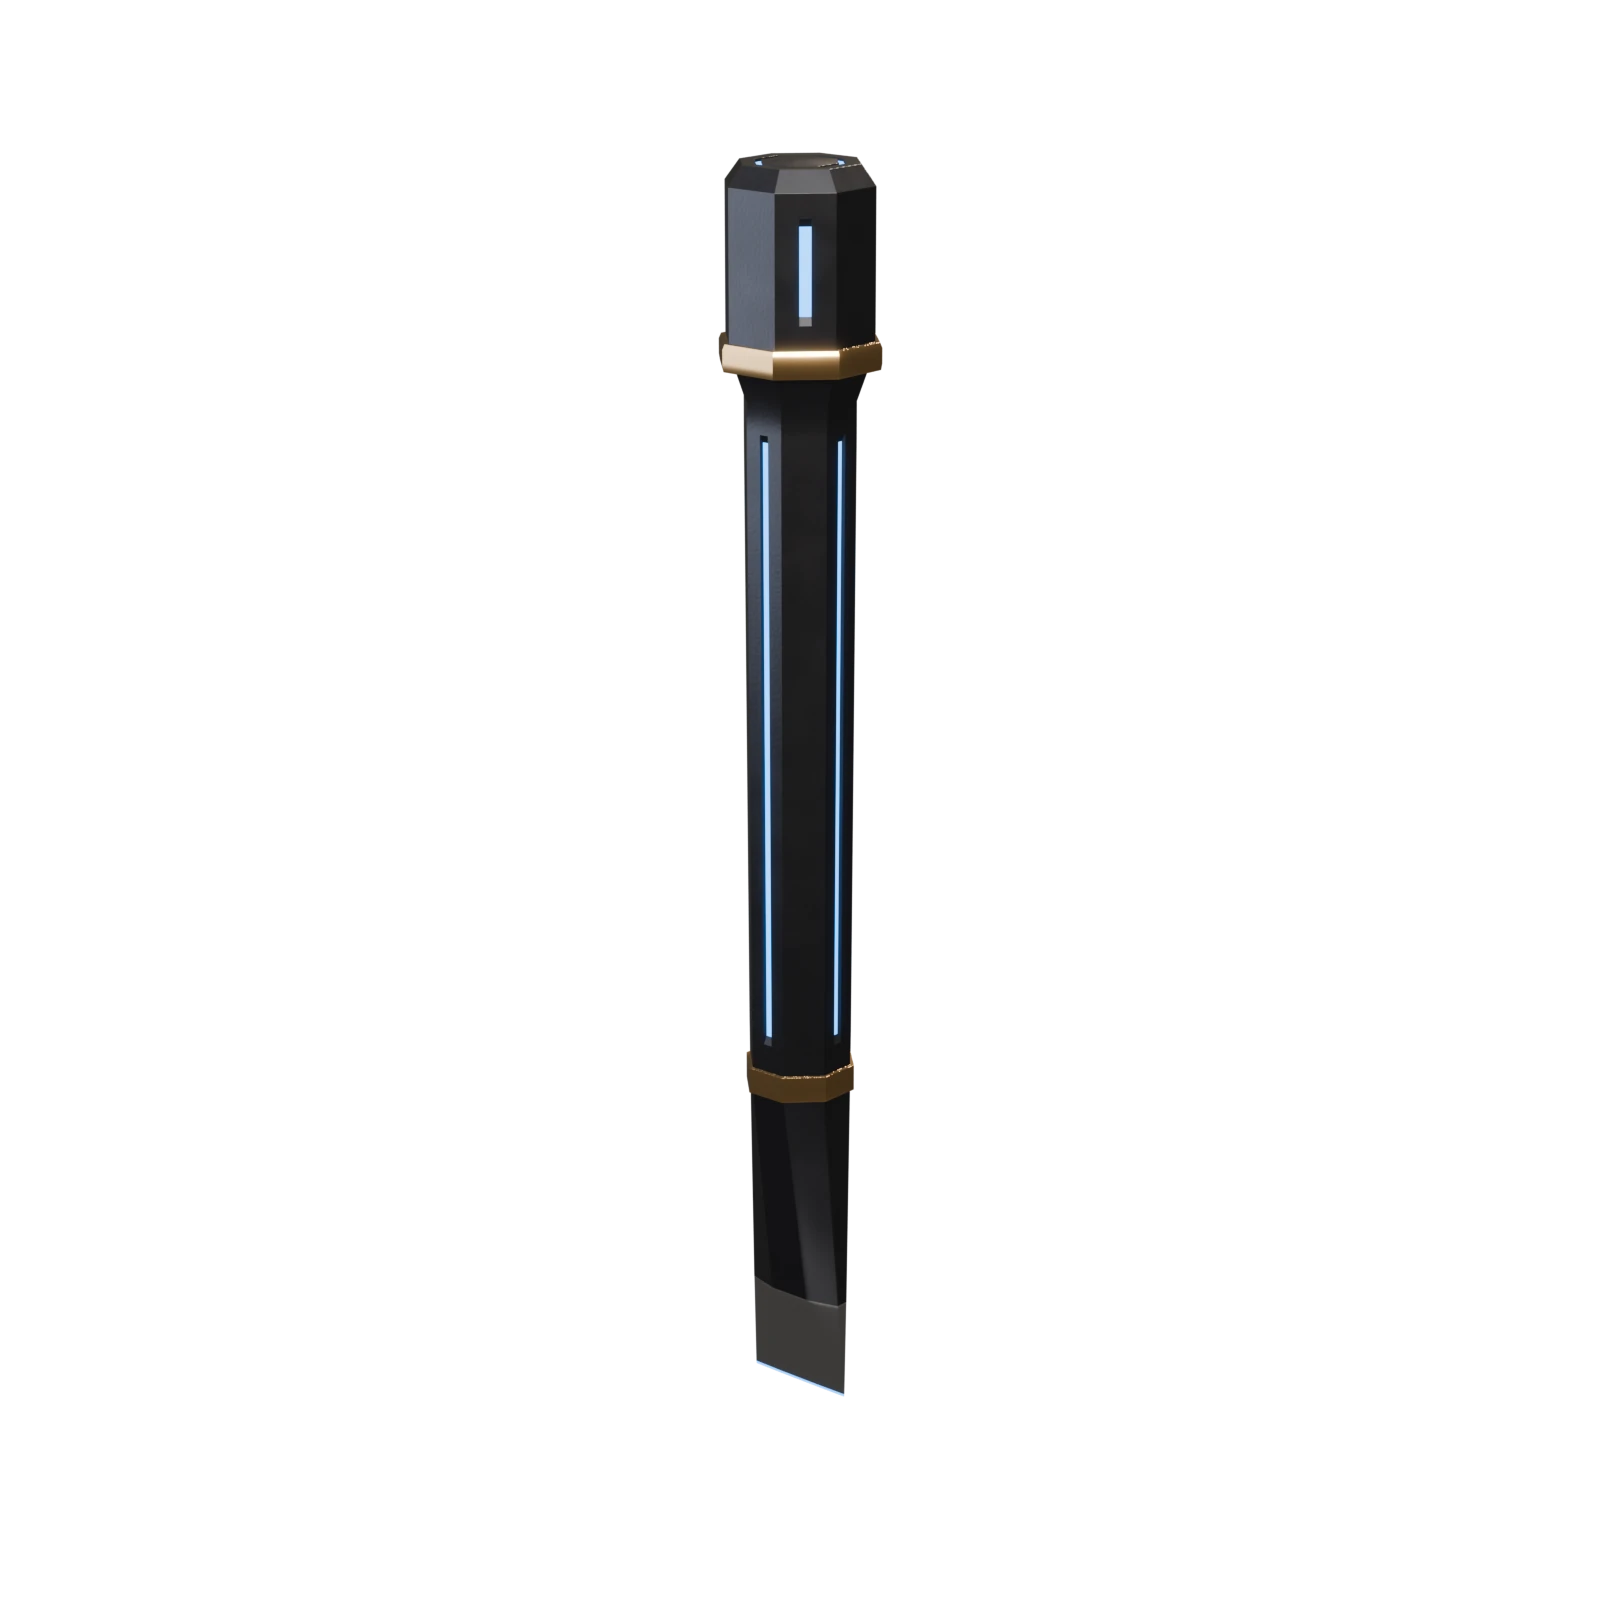
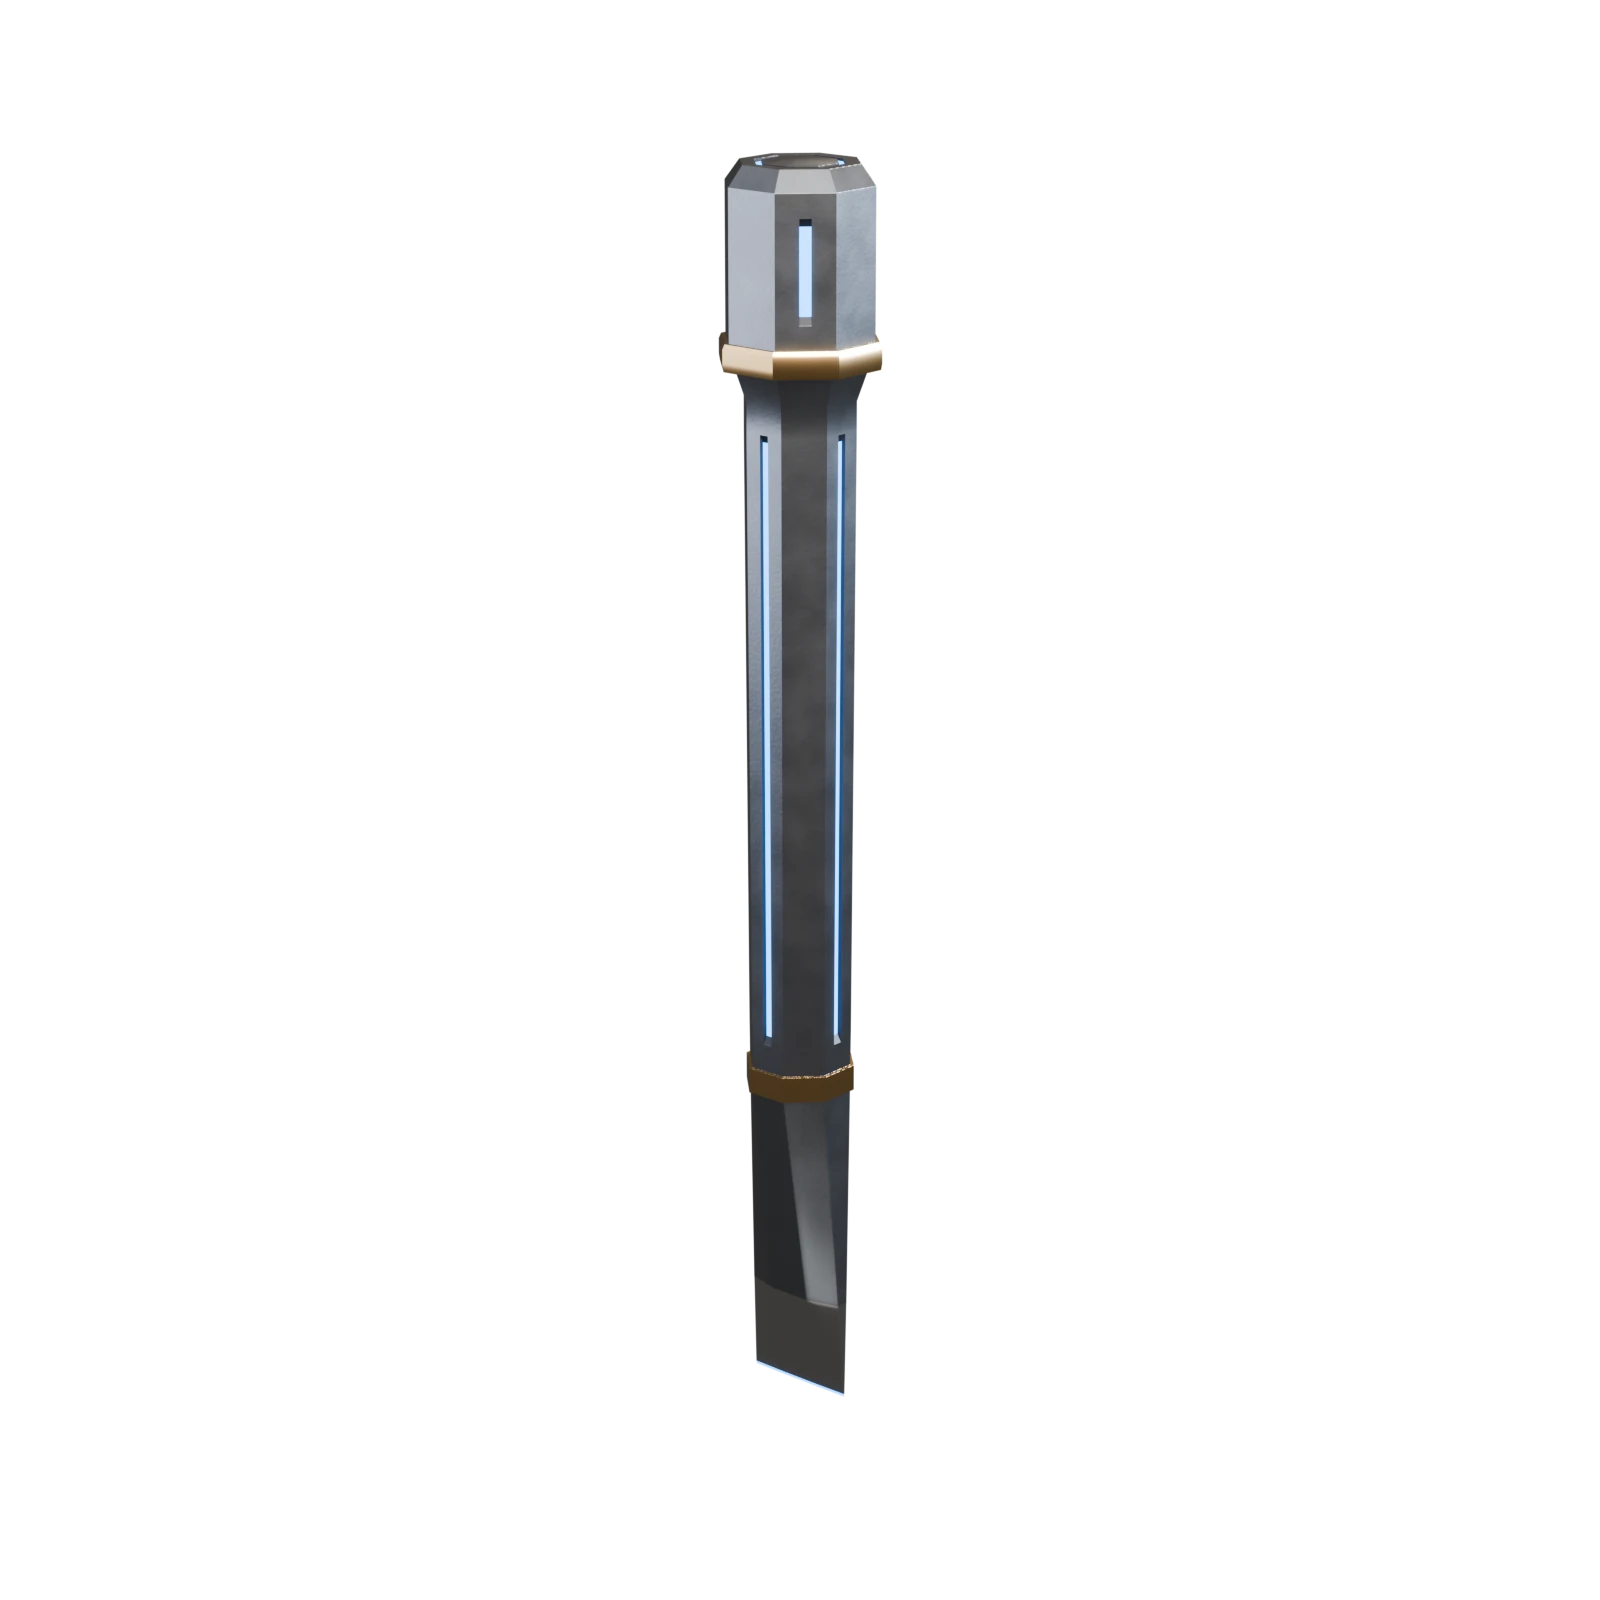
Tools: bright hammer faces, light titanium chisel for the dark site
Claude-Session: https://claude.ai/code/session_01Roidku2vvtVQoHYrC3o7Sn

Changed region(s): [[0.4375, 0.0938, 0.5625, 0.8125]]

diff --git a/3d/scripts/tools_build.py b/3d/scripts/tools_build.py
@@ -50,13 +50,13 @@ def mat(name, base, metal=0.0, rough=0.4, coat=0.0, emis=None, estr=0.0, vp=None
     return m
 
 M_GOLD = mat("Tool_Gold", (0.98, 0.62, 0.26), metal=1.0, rough=0.19, rough_var=0.04)
-M_BRONZE = mat("Tool_Bronze", (0.80, 0.52, 0.28), metal=1.0, rough=0.34, rough_var=0.05, bump=0.05, bump_scale=2500.0)
+M_BRONZE = mat("Tool_Bronze", (1.0, 0.70, 0.38), metal=1.0, rough=0.14, rough_var=0.03, aniso=0.3)
 M_LEATHER = mat("Tool_Leather", (0.56, 0.40, 0.25), rough=0.58, coat=0.1, bump=0.25, bump_scale=900.0, rough_var=0.06)
 M_AMBER = mat("Tool_GlowAmber", (1.0, 0.40, 0.05), rough=0.3, emis=(1.0, 0.40, 0.04), estr=5.0, vp=(1.0, 0.6, 0.2))
-M_GUN = mat("Tool_Gunmetal", (0.07, 0.075, 0.088), metal=0.95, rough=0.25, rough_var=0.06, bump=0.04, bump_scale=1500.0)
-M_GUNDARK = mat("Tool_GunmetalDark", (0.03, 0.032, 0.04), metal=0.8, rough=0.42)
+M_GUN = mat("Tool_Gunmetal", (0.36, 0.40, 0.47), metal=1.0, rough=0.26, aniso=0.35, rough_var=0.06, bump=0.04, bump_scale=1500.0)
+M_GUNDARK = mat("Tool_GunmetalDark", (0.035, 0.04, 0.05), metal=0.8, rough=0.45)
 M_STEEL = mat("Tool_Steel", (0.82, 0.84, 0.88), metal=1.0, rough=0.2, aniso=0.5)
-M_BLUE = mat("Tool_GlowBlue", (0.02, 0.25, 0.9), rough=0.3, emis=(0.01, 0.30, 1.0), estr=3.2, vp=(0.25, 0.66, 1.0))
+M_BLUE = mat("Tool_GlowBlue", (0.02, 0.25, 0.9), rough=0.3, emis=(0.01, 0.30, 1.0), estr=5.0, vp=(0.25, 0.66, 1.0))
 
 # marble from the statue file (copied into this file; source untouched)
 with D.libraries.load(S + "/assets/asset_statue.blend", link=False) as (src, dst):
@@ -340,6 +340,7 @@ area("Key", (0.55, -0.65, 0.75), 24.0, (1.0, 0.88, 0.76), 0.45)
 area("Fill", (-0.85, -0.45, 0.35), 8.0, (0.85, 0.88, 1.0), 0.9)
 area("Rim", (-0.25, 0.75, 0.65), 32.0, (1.0, 0.82, 0.62), 0.35)
 area("Top", (0.0, 0.0, 1.0), 5.0, (1.0, 0.95, 0.9), 1.2)
+area("RimCool", (0.7, 0.6, 0.45), 30.0, (0.75, 0.85, 1.0), 0.3)
 cam_d = D.cameras.new("Camera"); cam = D.objects.new("Camera", cam_d); C_STUDIO.objects.link(cam); sc.camera = cam
 cam_d.lens = 85; cam_d.clip_start = 0.01
 

diff --git a/3d/scripts/tools_sheet.py b/3d/scripts/tools_sheet.py
@@ -6,14 +6,14 @@ names = ["hammer_front", "hammer_side", "hammer_34", "hammer_top", "hammer_head"
          "chisel_front", "chisel_side", "chisel_34", "chisel_end", "chisel_head", "chisel_tip", "chisel_site", "hero"]
 C, cols = 380, 5
 rows = (len(names) + cols - 1) // cols
-sheet = Image.new("RGB", (cols * C, rows * C), (22, 22, 24)); d = ImageDraw.Draw(sheet)
+sheet = Image.new("RGB", (cols * C, rows * C), (15, 15, 18)); d = ImageDraw.Draw(sheet)
 try: font = ImageFont.truetype("DejaVuSans.ttf", 15)
 except Exception: font = ImageFont.load_default()
 for k, n in enumerate(names):
     p = f"{O}/{n}.png" if n.endswith("_site") else f"{O}/tools_{n}.png"
     if not os.path.exists(p): continue
     im = Image.open(p).convert("RGBA").resize((C, C), Image.LANCZOS)
-    bg = Image.new("RGBA", (C, C), (22, 22, 24, 255)); bg.alpha_composite(im)
+    bg = Image.new("RGBA", (C, C), (15, 15, 18, 255)); bg.alpha_composite(im)
     x, y = (k % cols) * C, (k // cols) * C
     sheet.paste(bg.convert("RGB"), (x, y)); d.text((x + 8, y + 6), n, fill=(240, 200, 120), font=font)
 sheet.save(f"{O}/tools_contact_sheet.png"); print("ok", sheet.size)
